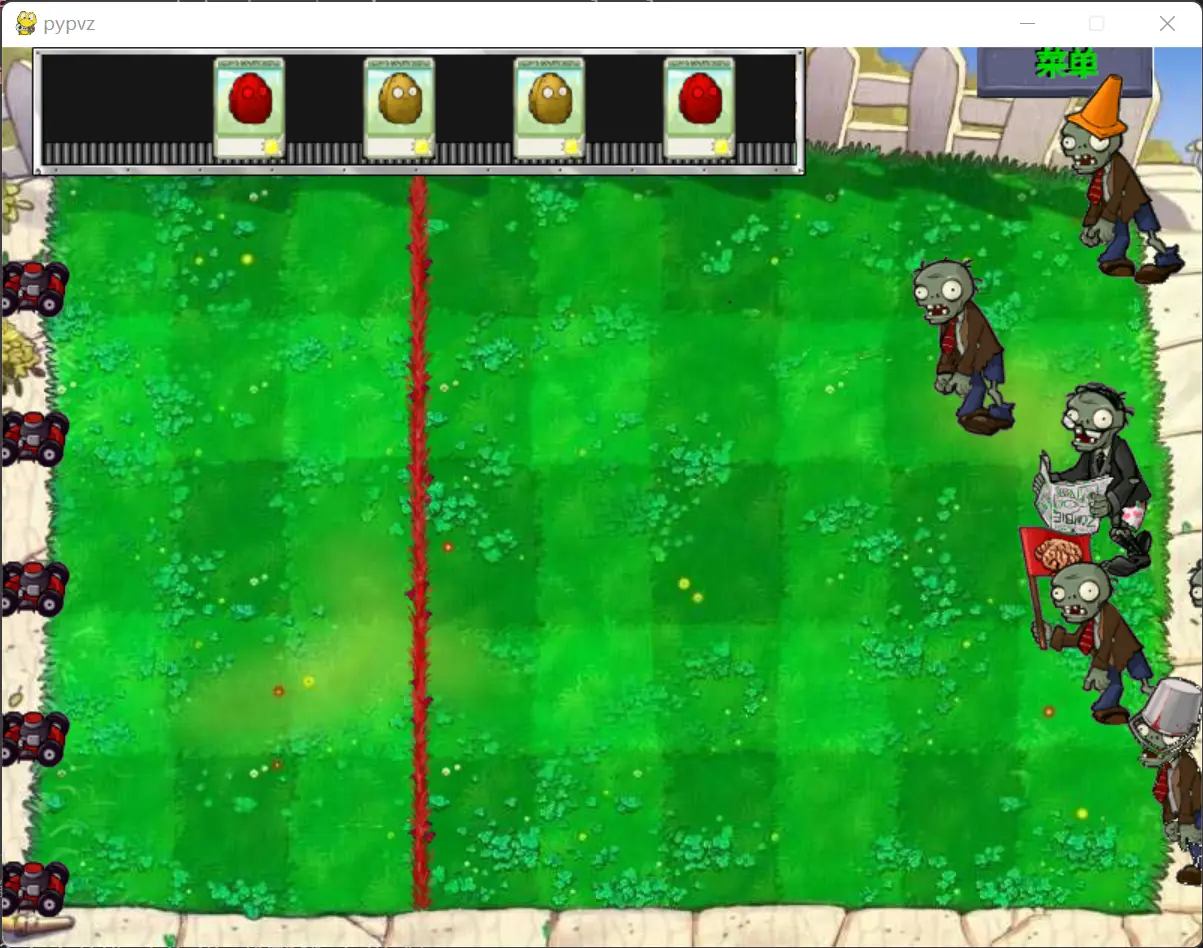
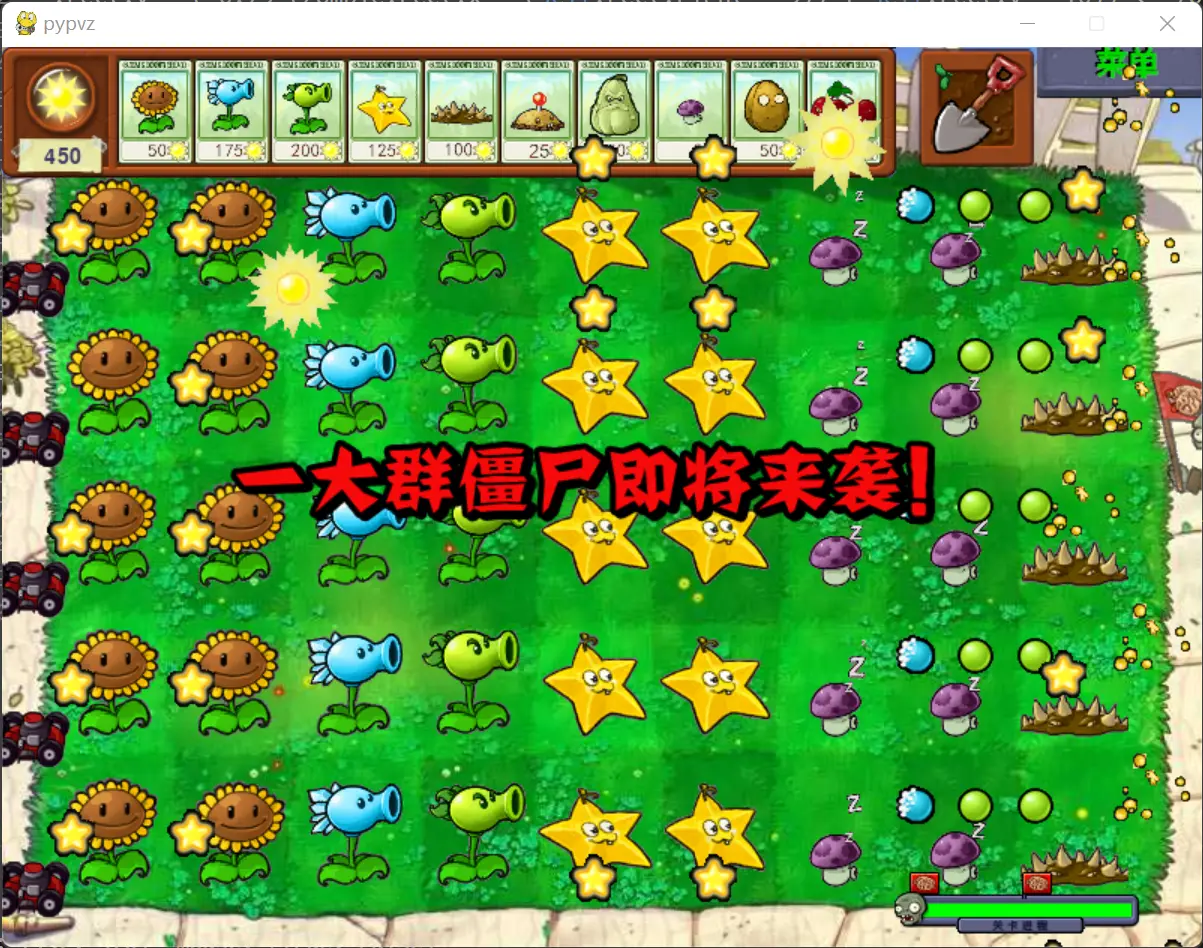
更新述图

diff --git a/README.md b/README.md
@@ -13,6 +13,8 @@
 * 支持全屏模式
   * 按`F`键进入全屏模式，按`U`键恢复至窗口模式
 * 支持用小铲子移除植物
+* 支持分波生成僵尸
+* 支持“关卡进程”进度条显示
 
 ## 环境要求
 
@@ -91,7 +93,6 @@ nuitka --mingw --standalone --onefile --show-progress --show-memory --output-dir
 
 ## ~~画大饼~~计划（不保证实施）
 
-* 增加“关卡进程”进度条
 * 增加保存数据文件以存储用户进度的功能
 * 增加调整音量的功能
 * 关卡开始前增加预览界面
@@ -158,3 +159,9 @@ nuitka --mingw --standalone --onefile --show-progress --show-memory --output-dir
 ![截屏5](/demo/demo5.webp)
 ![截屏6](/demo/demo6.webp)
 ![截屏7](/demo/demo7.webp)
+![截屏8](/demo/demo8.webp)
+![截屏9](/demo/demo9.webp)
+![截屏10](/demo/demo10.webp)
+![截屏11](/demo/demo11.webp)
+![截屏12](/demo/demo12.webp)
+![截屏13](/demo/demo13.webp)
